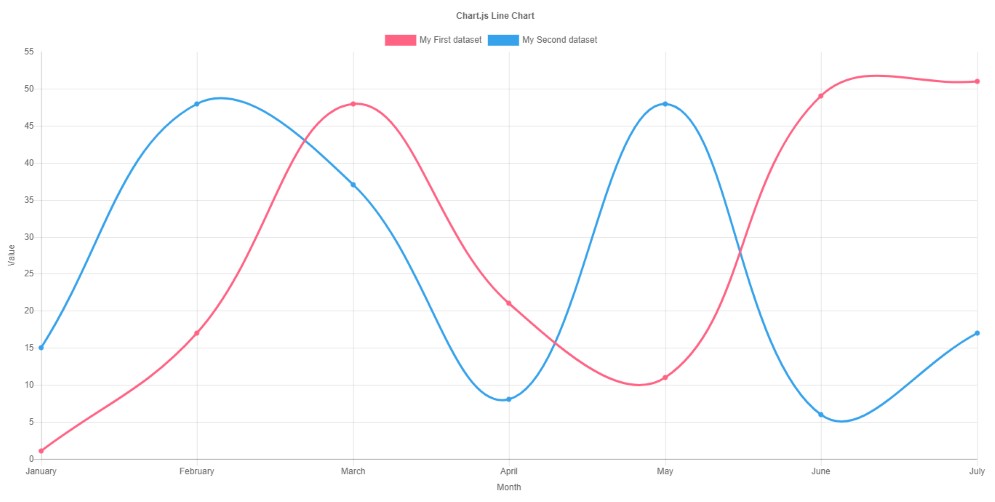
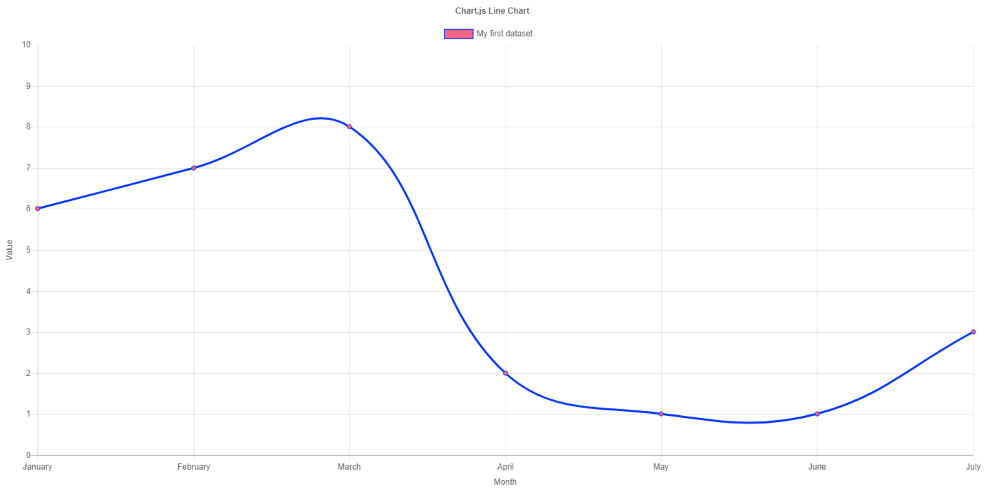
applied the changes requested in the review

diff --git a/_posts/2018-06-20-Wicked-Charts.md b/_posts/2018-06-20-Wicked-Charts.md
@@ -8,103 +8,107 @@ categories:     [Java]
 tags:           [Java, Wicket]
 ---
 
-Haben Sie eine Anwendung, die das Apache Wicket Framework verwendet und Sie müssen Daten visualisieren?
-Dann ist Wicked-Charts genau das Richtige für Sie. Es erlaubt Ihnen, auf einfache Weise und
-mit wenig Aufwand schöne und interaktive JavaScript-Charts in Ihre Anwendung zu integrieren.
-In diesem Artikel werde ich Ihnen zeigen, wie man ein einfaches Liniendiagramm konfiguriert.
+Bei der Entwicklung einer Anwendung mit dem Apache Wicket Framework stellt das Visualisieren verschiedener Daten mit klassischen Methoden eine große Herausforderung dar. Die Verwendung von Wicked-Charts ermöglicht es schöne und interaktive JavaScript-Charts in eine entsprechende Anwendung zu integrieren. In diesem Artikel wird dazu beispielhaft gezeigt, wie ein einfaches Liniendiagramm konfiguriert wird.
 
 ## Eine kurze Einführung in Wicked-Charts
 
-Wicked-Charts ist ein Java-Wrapper um zwei verschiedene JavaScript-Frameworks - Chart.js und Highcharts.
+Wicked-Charts ist ein Java-Wrapper für die beiden JavaScript Frameworks Chart.js und Highcharts.
 Zu beachten ist, dass Highcharts keine kostenlose Lizenz verwendet.
 Die Bibliothek enthält Module für alle aktuellen Versionen von Apache Wicket sowie für das JSF Framework.
 Die kostenlose Chart.js-Bibliothek ist jedoch nur in Wicket verfügbar.
 
-Wenn Sie Erfahrung mit Apache Wicket haben, dann wissen Sie, dass, um ein Element zu unserer Webseite hinzuzufügen, 
-benötigen wir eine in Java geschriebene Wicket-Komponente und ein zusätzliches Markup in unserem HTML, um diese Komponente zu verwenden.
+Wenn Sie Erfahrung mit Apache Wicket haben, dann wissen Sie, dass, um ein Element zu einer Webseite hinzuzufügen, 
+benötigt man eine in Java geschriebene Wicket-Komponente und ein zusätzliches Markup in HTML.
 Die Komponente, mit der ein Diagramm in Wicked-Charts dargestellt wird, heißt `Chart`. Der Konstruktor von
-dieser Komponente benötigt einen `String` - unsere Wicket-ID für das Diagramm und ein weiteres Objekt namens `ChartConfiguration`.
-Dies ist das Objekt, das wir verwenden werden, um die verschiedenen Optionen zu konfigurieren, die unsere Diagramme haben können, wie z. B.
-die Art des Diagramms, die zu visualisierenden Daten und viele andere Optionen.
+dieser Komponente benötigt einen `String` - der Wicket-ID für das Diagramm und ein weiteres Objekt namens `ChartConfiguration`.
+Dies ist das Objekt, das verwendet wird, um die verschiedenen Optionen von einem Diagramm zu konfigurieren, wie z. B.
+die Art des Diagramms und die zu visualisierenden Daten.
 
-## Lassen Sie uns ein einfaches Liniendiagramm erstellen.
+## Erstellung eines einfachen Liniendiagramms
 
-Die richtigen Gradle/Maven-Koordinaten für Wicked-Charts finden Sie im GitHub-Repository des Projekts.
+Die richtigen Gradle/Maven-Koordinaten für Wicked-Charts sind im GitHub-Repository des Projekts zu finden: 
+[GitHub](https://github.com/adessoAG/wicked-charts) 
 
-Wir beginnen mit der Konfiguration des Diagramms.
-Erstellen Sie ein `ChartConfiguration` Objekt.
+Konfigurieren des Diagramms.
+Es wird erst ein `ChartConfiguration` Objekt benötigt.
 ```java
 ChartConfiguration chartConfiguration = new ChartConfiguration();
+chartConfiguration.setType(ChartType.LINE);
 ```
 
-Wir erstellen nun ein neues `Data` Objekt. Sie enthält unsere Labels und Datensätze. Wir können so viele Datensätze haben, wie wir möchten.
+Außerdem wird ein Data-Objekt benötigt, welches die Labels (Achsenbeschriftungen) und Datensätze enthält.
 ```java
 Data data = new Data().setLabels(TextLabel.of("January", "February", "March", "April", "May", "June", "July"));
 ```
 
-Wir erstellen einen Datensatz und fügen ihn unserem Datenobjekt hinzu.
-
+Das Datenobjekt braucht auch einen Datensatz
 ```java
 Dataset dataset1 = new Dataset()
-    .setLabel("My First dataset")  //Ein Label für den Datensatz
-    .setBackgroundColor(SimpleColor.RED) //Wir wählen eine Farbe aus dem SimpleColor Enum, dieses Enum enthält einige der am häufigsten verwendeten Farben.
-    .setBorderColor(new RgbaColor(255, 100, 100, 255) //Sie können aber auch Ihre eigene Farbe mit den Klassen RgbaColor/HexColor definieren.
-    .setData(IntegerValue.of(6,7,9,2,9,1,3)) //Hier setzen wir die eigentlichen Datenpunkte.
+    .setLabel("My first dataset")  //Ein Label für den Datensatz
+    .setBackgroundColor(SimpleColor.RED) //Man kann eine Farbe aus dem SimpleColor Enum wählen. Dieses Enum enthält einige der am häufigsten verwendeten Farben.
+    .setBorderColor(new RgbaColor(255, 100, 100, 255)) //Man kann auch eine eigene Farbe mit den Klassen RgbaColor/HexColor definieren.
+    .setData(IntegerValue.of(6,7,9,2,9,1,3)) //Hier werden die eigentlichen Datenpunkte gesetzt.
     .setFill(false);
 
 data.setDatasets(Arrays.asList(dataset1));
 chartConfiguration.setData(data);
 ```
 
-Nun müssen wir die Optionen für unser Liniendiagramm erstellen.
+Nun müssen die Optionen für das Liniendiagramm erstellen werden.
 ```java
 Options options = new Options()
         .setResponsive(true)
         .setTitle(new Title()
                 .setDisplay(true)
-                .setText("Chart.js Line Chart")) //Der Titel unseres Diagramms.
-        .setTooltips(new Tooltips() //Unsere Tooltips (Diese sieht man beim Überfahren eines Datenpunktes)
+                .setText("Chart.js Line Chart")) //Der Titel des Diagramms.
+        .setTooltips(new Tooltips() //Tooltips werden erstellt (Diese sieht man beim Überfahren eines Datenpunktes)
                 .setMode(TooltipMode.INDEX)
                 .setIntersect(false))
         .setHover(new Hover()
                 .setMode(HoverMode.NEAREST)
                 .setIntersect(true))
         .setScales(new Scales()
-                .setXAxes(new AxesScale() //Wir konfigurieren die X-Achse
+                .setXAxes(new AxesScale() //Konfigurieren der X-Achse
                         .setDisplay(true)
                         .setScaleLabel(new ScaleLabel()
                                 .setDisplay(true)
                                 .setLabelString("Month")))
                 .setYAxes(new AxesScale() //Und die Y-Achse
+                        .setTicks(new Ticks()
+                                .setMax(10) //Die Achse zeigt nur Werte im Bereich 0-10
+                                .setMin(0))
                         .setDisplay(true)
                         .setScaleLabel(new ScaleLabel()
                                 .setDisplay(true)
                                 .setLabelString("Value"))));
-```
 
-Dann fügen wir diese Optionen zu unserer Chart-Konfiguration hinzu.
-```java
 chartConfiguration.setOptions(options);
 ```
 
-
-Alles, was wir noch tun müssen, ist, unsere Diagramm auf die Wicked Page zu setzen.
+Man muss noch das Diagramm auf die Wicked Page setzen.
 ```java
 Chart chart = new Chart("chart", chartConfiguration);
 add(chart);
 ```
 
-Und wir sind fertig - wir haben jetzt ein Liniendiagramm auf unserer Seite.
-So sieht sie aus:
- 
+Das HTML für das Diagramm sieht so aus:
+
+```html
+<div style="width: 75%">
+    <canvas wicket:id="chart"></canvas>
+</div>
+```
+Das Diagramm sollte so aussehen:
+
  ![](/assets/images/posts/wicked-charts/LineChart.png)
+
+Eine Wicket-Anwedung, die dieses minimales Beispiel umsetzt ist hier zu finden: [GitHub](https://github.com/maximAtanasov/wicked-charts-example) 
 
 ## Was Wicked-Charts noch kann
 
-
- Wicked-Charts unterstützt auch viele andere Chart-Typen und Variationen:
+Neben Liniendiagrammen unterstützt Wicked-Charts auch viele weitere Diagrammtypen und Variationen, wie beispielsweise die folgenden:
  
- Man könnte ein Diagramm mit Datensätzen auf mehreren Achsen haben:
+ Ein Diagramm mit Datensätzen auf mehreren Achsen
  
  ![](/assets/images/posts/wicked-charts/barMultiAxis.png)
  
@@ -112,7 +116,7 @@ So sieht sie aus:
  
  ![](/assets/images/posts/wicked-charts/comboBar.png)
 
-Die bibliothek unterstützt auch folgedene Chart-Typen:
+Die bibliothek unterstützt auch folgedene Diagrammtypen:
 
 - Balkendiagramme
 - Radardiagramme
@@ -122,9 +126,8 @@ Die bibliothek unterstützt auch folgedene Chart-Typen:
 - Polargebietskarten
 - Blasendiagramme
 
-Alle diese Diagramme haben auch viele Variationen mit verschiedenen Einstellungen und Funktionen aktiviert.
+Alle diese Diagramme haben auch viele Variationen mit verschiedenen Einstellungen und Funktionen.
 Sie können z. B. gestapelte Diagramme, verschiedene Füllmodi und verschiedene Punkt- oder Linienstile haben sowie
 benutzerdefinierte Funktionen einfügen.
-Um herauszufinden, wie Sie diese Einstellungen in Ihrer Anwendung verwenden können, werfen Sie einen Blick auf die Wicked-Charts-Showcase-Anwendung, die
-praktische Code-Samples zum Durchblättern enthält. Es kann aus dem Wicked-Charts-Repository heruntergeladen werden: 
-[GitHub](https://github.com/adessoAG/wicked-charts)
+Um herauszufinden, wie Sie diese Einstellungen in Ihrer Anwendung verwenden können, werfen Sie einen Blick auf die Wicked-Charts-Showcase Anwendung, die
+praktische Code-Samples zum Durchblättern enthält. Es kann aus dem Wicked-Charts-Repository heruntergeladen werden.
